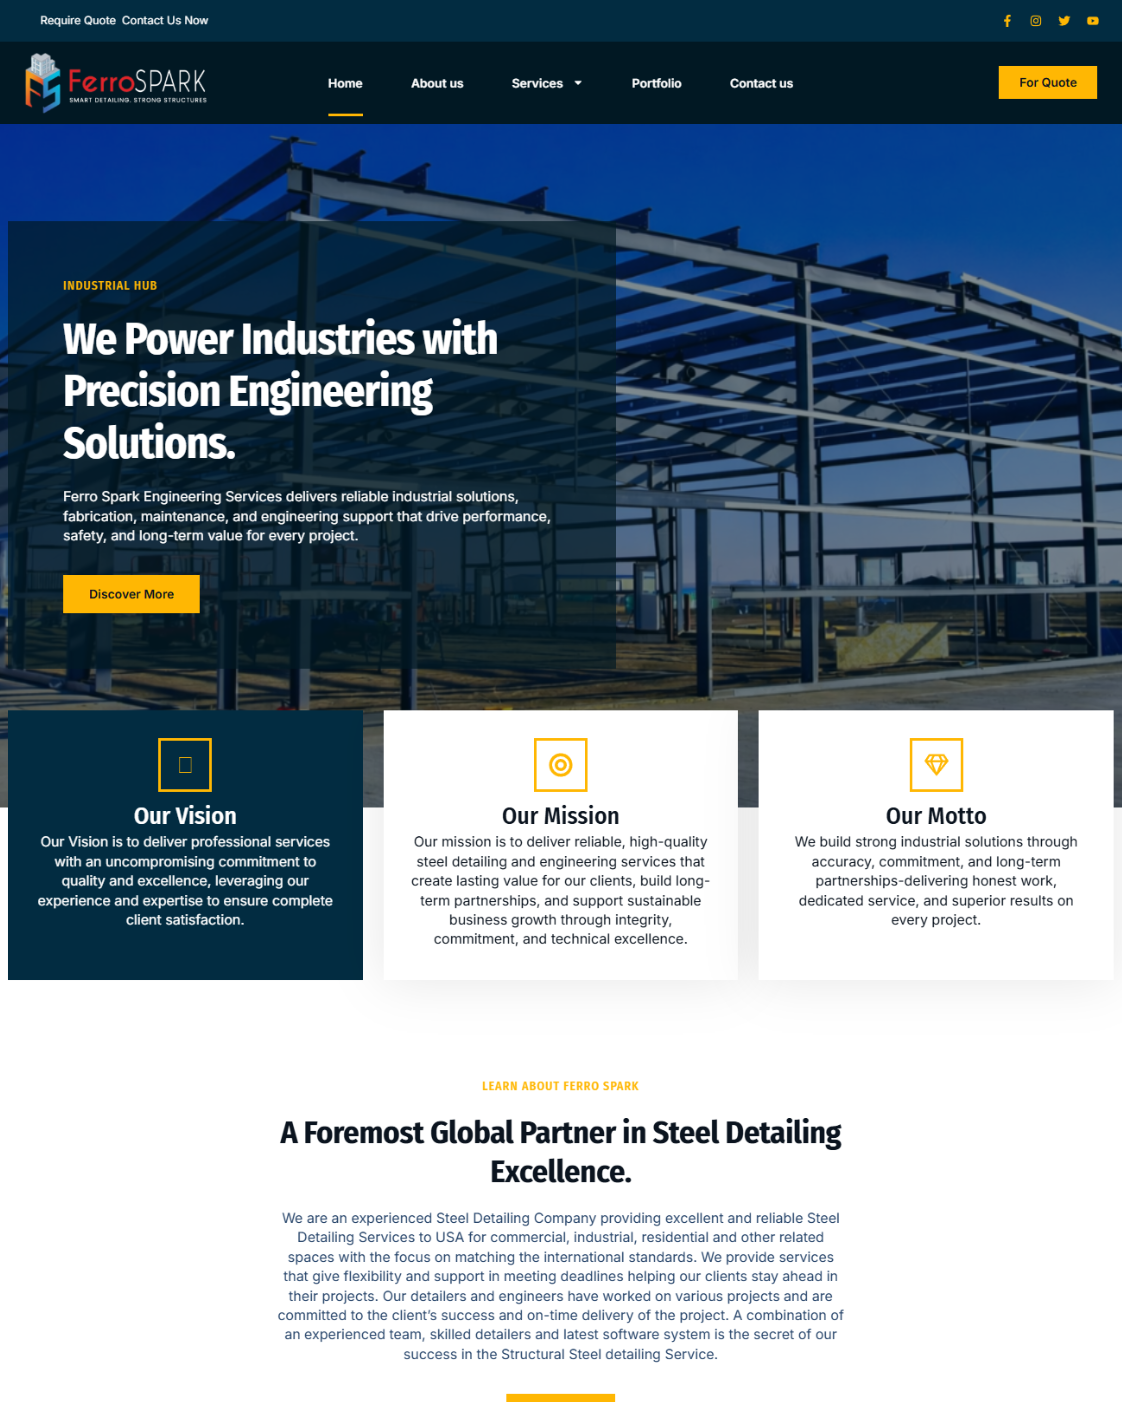
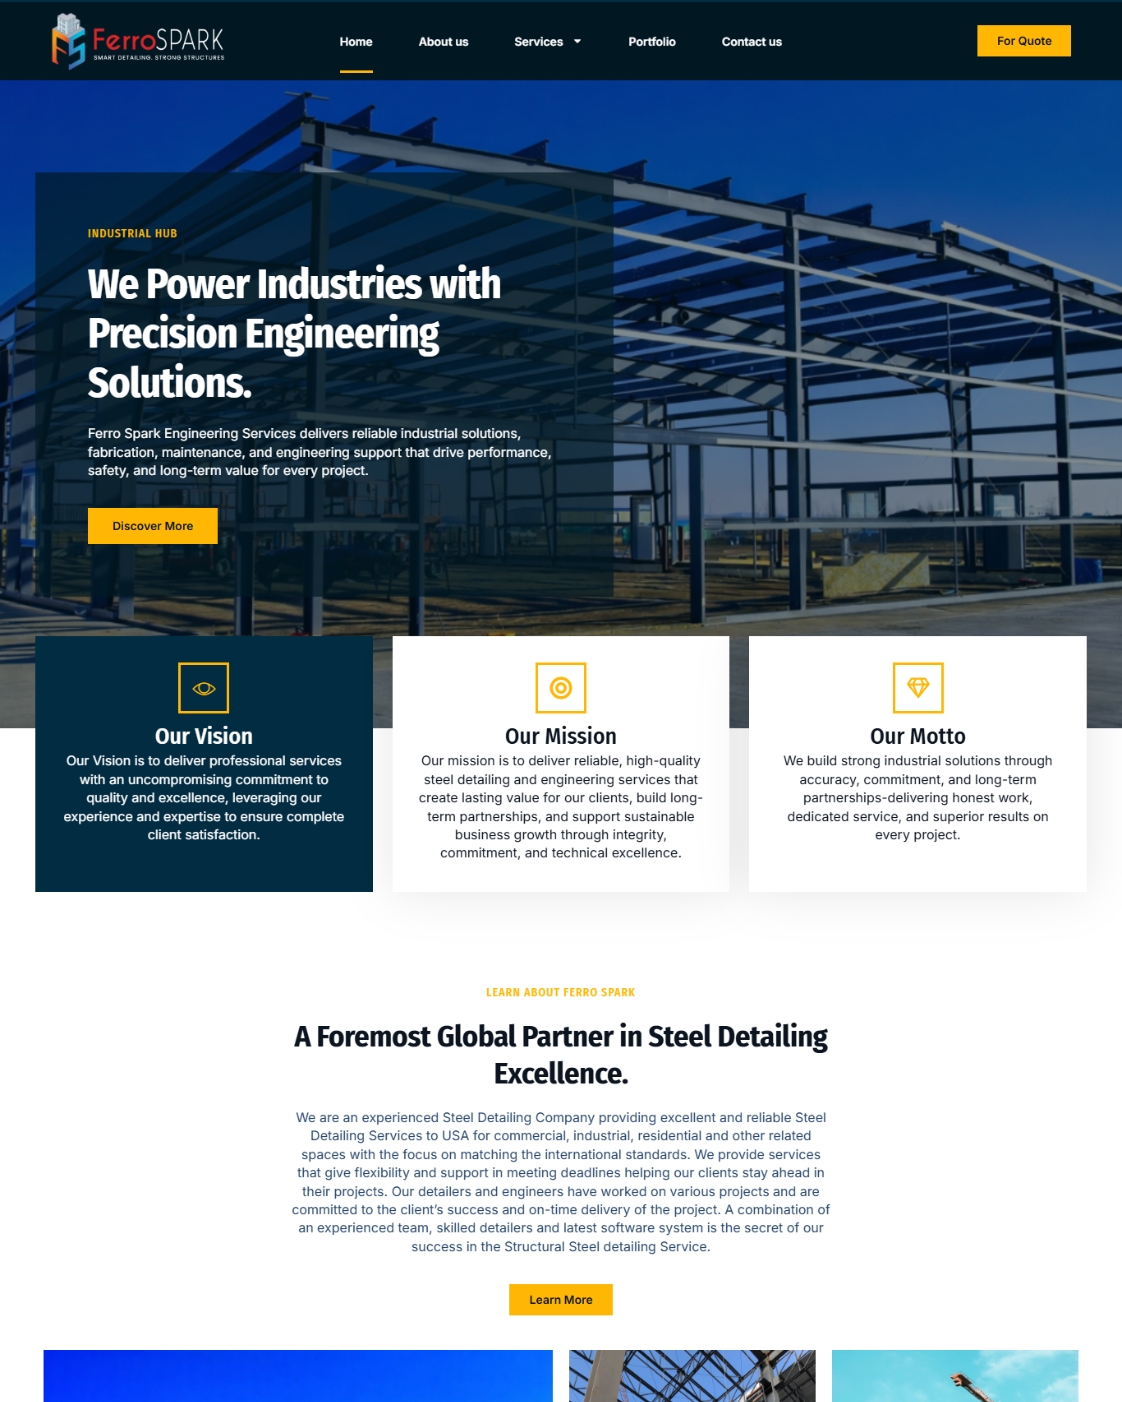
nine commit

diff --git a/project.html b/project.html
@@ -95,8 +95,16 @@
             <div class="project-preview"><img src="assets/thanjavurfarms.png" alt="Thanjavurfarms ecommerce website preview" /></div>
             <div class="project-body">
               <h3>Thanjavurfarms</h3>
-              <p>Online store for spice powder and organic-based products with product browsing and purchase flow.</p>
+              <p>Discover premium herbal soaps and trusted feminine hygiene solutions designed for natural care.</p>
               <a class="project-link" href="https://thanjavurfarms.com/" target="_blank" rel="noopener">Live Link <span>&rarr;</span></a>
+            </div>
+          </article>
+          <article class="project-card">
+            <div class="project-preview"><img src="assets/abi start.png" alt="Abi Star Ventures ecommerce website preview" /></div>
+            <div class="project-body">
+              <h3>Abi Star Ventures</h3>
+              <p>Online store for spice powder and organic-based products with product browsing and purchase flow.</p>
+              <a class="project-link" href="https://miwonnaturals.com/" target="_blank" rel="noopener">Live Link <span>&rarr;</span></a>
             </div>
           </article>
           <article class="project-card">
@@ -105,6 +113,14 @@
               <h3>Uniquecraft</h3>
               <p>Online product website for gifts, visiting cards, flower bouquets, and custom craft items.</p>
               <a class="project-link" href="https://uniquecraft.in/" target="_blank" rel="noopener">Live Link <span>&rarr;</span></a>
+            </div>
+          </article>
+          <article class="project-card">
+            <div class="project-preview"><img src="assets/ram esware.png" alt="Ram Eswar Vetiver ecommerce website preview" /></div>
+            <div class="project-body">
+              <h3>Ram Eswar Vetiver</h3>
+              <p>Experience the essence of authentic vetiver with our handcrafted collection of essential oils, aroma products, soaps, and eco-friendly lifestyle essentials.</p>
+              <a class="project-link" href="https://rameswarvetiver.in/" target="_blank" rel="noopener">Live Link <span>&rarr;</span></a>
             </div>
           </article>
           <article class="project-card">
@@ -157,14 +173,21 @@
 
         <div class="project-category project-category-plugin" data-project-panel="Plugin">
           <article class="project-card">
-            <div class="project-preview"><img src="./assets/plugin-uploadflow.jpg" alt="Nandhini portfolio website preview" /></div>
+            <div class="project-preview"><img src="./assets/uploadflow.png" alt="UploadFlow for WooCommerce preview" /></div>
             <div class="project-body">
               <h3>UploadFlow for WooCommerce</h3>
-              <p>A custom WooCommerce plugin that enables customers to upload files directly from the product page before adding items to the cart. It includes secure file handling, admin management, and seamless WooCommerce integration.</p>
-              <a class="project-link" href="#" target="_blank" rel="noopener">Download this Plugin <span>&rarr;</span></a>
+              <p>A custom WooCommerce plugin that allows customers to upload files directly from the product page before adding items to the cart.</p>
+              <a class="project-link" href="https://wordpress.org/plugins/uploadflow-for-woocommerce/" target="_blank" rel="noopener">Download this Plugin <span>&rarr;</span></a>
             </div>
           </article>
-          
+          <article class="project-card">
+            <div class="project-preview"><img src="./assets/kamnova.png" alt="Kamnova preview" /></div>
+            <div class="project-body">
+              <h3>Kamnova for WooCommerce</h3>
+              <p>A custom WooCommerce delivery plugin designed for bakery businesses to manage delivery dates, time slots, preparation time, and same-day delivery.</p>
+              <a class="project-link" href="https://wordpress.org/plugins/kamnova-for-woocommerce/" target="_blank" rel="noopener">Download this Plugin <span>&rarr;</span></a>
+            </div>
+          </article>
         </div>
 
         <div class="project-category" data-project-panel="portfolio">
